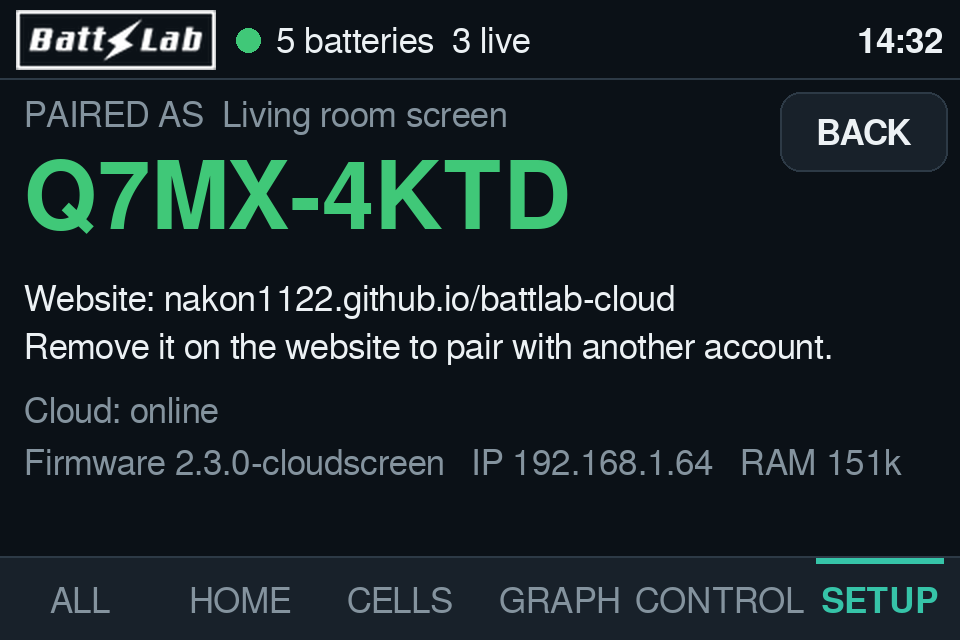
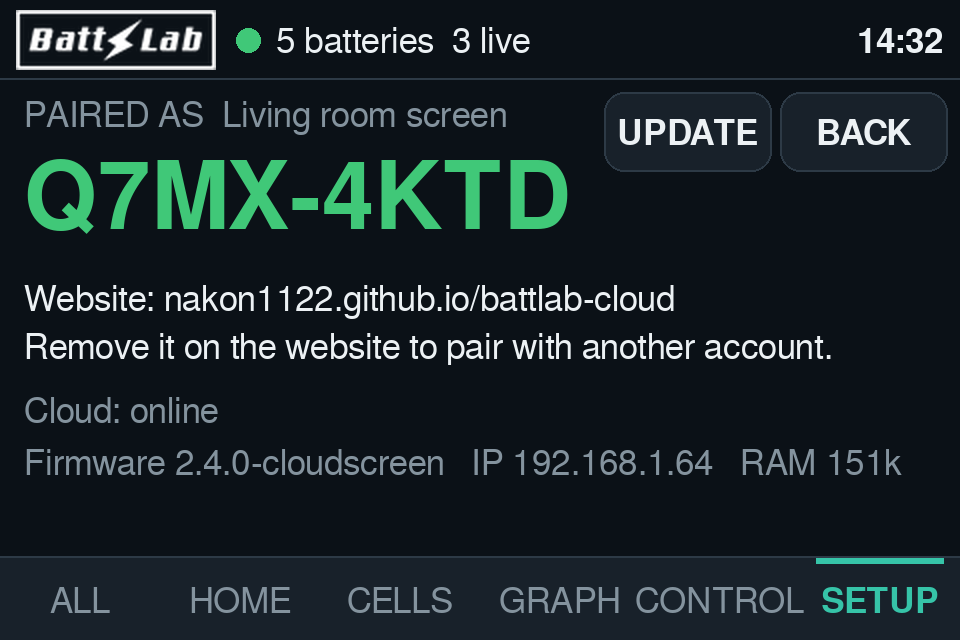
v2.4.0 docs, update previews
Claude-Session: https://claude.ai/code/session_01VYdSakDTk2CeAZPFHF5uE7

Changed region(s): [[0.625, 0.1875, 0.8125, 0.25], [0.2188, 0.6875, 0.25, 0.75]]

diff --git a/cloud/web/index.html b/cloud/web/index.html
@@ -108,10 +108,10 @@ table{width:100%;border-collapse:collapse;font-size:13px;font-variant-numeric:ta
 .tg{display:flex;align-items:center;justify-content:space-between;gap:12px;padding:10px 0;border-bottom:1px solid var(--line)}.tg:last-child{border-bottom:0}.tg .l{flex:1}.tg .l small{display:block;color:var(--muted);font-size:12px}
 .sw2{position:relative;width:52px;height:30px;border-radius:15px;background:var(--line);border:0;padding:0;flex:none;transition:background .15s}.sw2:after{content:"";position:absolute;top:3px;left:3px;width:24px;height:24px;border-radius:50%;background:#fff;transition:left .15s}.sw2.on{background:var(--good)}.sw2.on:after{left:25px}
 .prm{display:grid;grid-template-columns:1fr 110px auto;gap:8px;align-items:center;padding:8px 0;border-bottom:1px solid var(--line)}.prm input{margin:0;padding:8px 10px}.prm button{padding:8px 12px}.prm small{display:block;color:var(--muted);font-size:12px}
-.cl{display:flex;gap:8px;align-items:center;font-size:13px;padding:6px 0;border-bottom:1px solid var(--line)}.cl b{flex:1;font-weight:600}.st{font-size:11px;font-weight:700;padding:2px 8px;border-radius:10px;border:1px solid var(--line);color:var(--muted)}.st.done{color:var(--good);border-color:var(--good)}.st.error,.st.expired{color:var(--bad);border-color:var(--bad)}.st.sent,.st.pending{color:var(--warn);border-color:var(--warn)}
+.cl{display:flex;gap:8px;align-items:center;font-size:13px;padding:6px 0;border-bottom:1px solid var(--line)}.cl b{flex:1;font-weight:600;min-width:0;overflow-wrap:anywhere}.st{font-size:11px;font-weight:700;padding:2px 8px;border-radius:10px;border:1px solid var(--line);color:var(--muted)}.st.done{color:var(--good);border-color:var(--good)}.st.error,.st.expired{color:var(--bad);border-color:var(--bad)}.st.sent,.st.pending{color:var(--warn);border-color:var(--warn)}
 .ledc{display:flex;gap:8px;flex-wrap:wrap;margin:8px 0}.ledc span{width:34px;height:34px;border-radius:50%;cursor:pointer;border:3px solid transparent}.ledc span.on{border-color:var(--text)}
 .devrow{display:flex;gap:8px;align-items:center;padding:8px 0;border-bottom:1px solid var(--line)}.devrow .l{flex:1;min-width:0}.devrow .l b{display:block;overflow:hidden;text-overflow:ellipsis;white-space:nowrap}.devrow select{width:auto;margin:0;padding:7px}.devrow button{padding:8px 12px}
-@media(max-width:480px){.hide-s{display:none}}
+@media(max-width:480px){.hide-s{display:none}header{gap:4px!important}header button{padding:6px 8px!important}header img{height:20px!important}}
 .toast{position:fixed;left:50%;bottom:24px;transform:translateX(-50%);background:var(--card);border:1px solid var(--line);padding:10px 16px;border-radius:12px;max-width:90vw;z-index:50;box-shadow:0 8px 24px rgba(0,0,0,.3)}
 .empty{text-align:center;padding:26px 10px}.empty .e{font-size:44px}
 @media(max-width:480px){header{gap:6px;padding-left:12px;padding-right:12px}header img{height:22px}header button{padding:7px 10px;font-size:14px}header .badge{font-size:11px;padding:2px 7px}}
@@ -298,8 +298,8 @@ function demoAt(t){// t seconds
  const ph=t/5400,soc=58+32*Math.sin(ph),cur=Math.round(42*Math.cos(ph)*10)/10,cells=[];
  for(let k=0;k<16;k++)cells.push(+(3.255+soc*0.0012+0.004*Math.sin(k*1.7)+(k===11?0.019:0)+(k===4?-0.012:0)+0.002*Math.sin(t/4000+k)).toFixed(3));
  const v=cells.reduce((a,b)=>a+b,0),t1=29+6*Math.max(0,Math.cos(ph))+Math.sin(t/900);
- return {fw:'2.1.0-cyd35',state:'LIVE',bms:'JK02_32S',model:'JK-B2A24S20P',rssi:-61,up:Math.round(t%200000),heap:61440,blk:31744,v:+v.toFixed(2),i:cur,p:+(v*cur).toFixed(0),soc:+soc.toFixed(0),cap:+(soc/100*280).toFixed(1),cyc:37,t1:+t1.toFixed(1),t2:+(t1-0.8).toFixed(1),mos:+(t1+7).toFixed(1),chg:true,dsg:true,cells,cmin:Math.min(...cells),cmax:Math.max(...cells),...demoExtra()}}
-function demoExtra(){const S=demoState();return {chg:S.chg,dsg:S.dsg,jk:{v:S.jk,sw:[S.chg,S.dsg,S.bal]},devs:S.devs||undefined,wscan:S.wscan||undefined,cfg:{board:'cyd35',remote:1,led:S.led,ap:S.ap,tx:S.tx,ssid:S.ssid,ip:'192.168.1.57',wrssi:-55,note:S.note||undefined,mac:'c8:47:80:12:34:56',proto:'AUTO',auto:true,atype:0,fam:1,scanning:false,lw:'',disp:S.disp}}}
+ return {fw:'2.3.0-cyd35',state:'LIVE',bms:'JK02_32S',model:'JK-B2A24S20P',rssi:-61,up:Math.round(t%200000),heap:61440,blk:31744,v:+v.toFixed(2),i:cur,p:+(v*cur).toFixed(0),soc:+soc.toFixed(0),cap:+(soc/100*280).toFixed(1),cyc:37,t1:+t1.toFixed(1),t2:+(t1-0.8).toFixed(1),mos:+(t1+7).toFixed(1),chg:true,dsg:true,cells,cmin:Math.min(...cells),cmax:Math.max(...cells),...demoExtra()}}
+function demoExtra(){const S=demoState();return {chg:S.chg,dsg:S.dsg,jk:{v:S.jk,sw:[S.chg,S.dsg,S.bal]},devs:S.devs||undefined,wscan:S.wscan||undefined,cfg:{board:'cyd35',remote:1,ota:1,led:S.led,ap:S.ap,tx:S.tx,ssid:S.ssid,ip:'192.168.1.57',wrssi:-55,note:S.note||undefined,mac:'c8:47:80:12:34:56',proto:'AUTO',auto:true,atype:0,fam:1,scanning:false,lw:'',disp:S.disp}}}
 function demoHist(from,to,b){const out=[];for(let t=Math.ceil(from/1000/b)*b;t<to/1000;t+=b){const d=demoAt(t);out.push({t:new Date(t*1000).toISOString(),soc:d.soc,voltage:d.v,current:d.i,power:d.p,temp:d.t1,mos:d.mos,cell_min:d.cmin,cell_max:d.cmax,n:Math.max(1,Math.round(b/60))})}return out}
 async function fetchLatest(dev){if(dev.ble)return latest[BLE_ID]||null;if(dev.demo)return {ts:new Date().toISOString(),data:demoAt(Date.now()/1000)};const {data}=await sb.from('latest').select('ts,data').eq('device_id',dev.id).maybeSingle();return data}
 async function fetchHist(dev,from,to,b){if(dev.demo)return demoHist(from,to,b);const {data,error}=await sb.rpc('history_buckets',{p_device:dev.id,p_from:new Date(from).toISOString(),p_to:new Date(to).toISOString(),p_bucket:b});if(error)throw error;return data||[]}
@@ -376,13 +376,14 @@ function renderList(){
  devs.forEach(d=>{const l=latest[d.id];if(l&&statusOf(l)[0]==='on'){if(num(l.data.p))pw+=l.data.p;if(num(l.data.soc))socs.push(l.data.soc)}});
  $('fleet').innerHTML='<div class="row wrap"><div><div class="big">อุปกรณ์ของฉัน</div><div class="small muted">'+devs.length+' เครื่อง · ออนไลน์ '+on+'</div></div>'+(socs.length?'<div class="nf" style="text-align:right"><div class="small muted">กำลังรวม / SOC เฉลี่ย</div><b style="font-size:20px">'+Math.round(pw)+' W · '+Math.round(socs.reduce((a,b)=>a+b,0)/socs.length)+'%</b></div>':'')+'</div>';
  const cards=devs.map(d=>{const l=latest[d.id],s=dset(d),[st,txt]=statusOf(l),al=evalAlerts(d,l);trackAlerts(d,al);const x=l&&l.data||{};const live=st==='on';
-  return '<div class="card dcard" data-id="'+esc(d.id)+'" style="--dc:'+(live?socColor(x.soc):st==='wait'?'var(--warn)':'var(--line)')+'"><div class="row"><span class="ic nf">'+esc(s.icon)+'</span><div><b>'+esc(d.name)+'</b>'+(al.length?'<span class="abadge">'+al.length+'</span>':'')+'<div class="small muted"><span class="dot '+st+'"></span> '+esc(txt)+'</div></div><div class="nf row" style="gap:10px">'+(live&&num(x.soc)?'<span class="batt" style="--bc:'+socColor(x.soc)+'"><i style="width:calc('+Math.max(4,Math.min(100,x.soc))+'% - 4px)"></i></span><span class="big">'+Math.round(x.soc)+'%</span>':'')+'</div></div>'+
+  return '<div class="card dcard" data-id="'+esc(d.id)+'" style="--dc:'+(live?socColor(x.soc):st==='wait'?'var(--warn)':'var(--line)')+'"><div class="row"><span class="ic nf">'+esc(s.icon)+'</span><div><b>'+esc(d.name)+'</b>'+(al.length?'<span class="abadge">'+al.length+'</span>':'')+(fwUpdate(x)?'<span class="abadge" style="background:var(--s1)">มีอัปเดต</span>':'')+'<div class="small muted"><span class="dot '+st+'"></span> '+esc(txt)+'</div></div><div class="nf row" style="gap:10px">'+(live&&num(x.soc)?'<span class="batt" style="--bc:'+socColor(x.soc)+'"><i style="width:calc('+Math.max(4,Math.min(100,x.soc))+'% - 4px)"></i></span><span class="big">'+Math.round(x.soc)+'%</span>':'')+'</div></div>'+
   (live?'<div class="socbar"><i style="width:'+Math.max(0,Math.min(100,x.soc))+'%;background:'+socColor(x.soc)+'"></i></div><div class="kv"><span><b>'+fmt(x.v,1)+'</b> V</span><span><b>'+fmt(x.i,1)+'</b> A</span><span><b>'+fmt(x.p,0)+'</b> W</span><span><b>'+fmtT(x.t1)+'</b> '+tU()+'</span></div>':'')+'</div>'});
  if(!demo)cards.push('<div class="card dcard" data-id="'+DEMO_ID+'" style="border-style:dashed"><div class="row"><span class="ic nf">✨</span><div><b>ดูตัวอย่างแดชบอร์ด</b><div class="small muted">ข้อมูลจำลอง ให้เห็นทุกฟังก์ชัน</div></div></div></div>');
  $('devList').innerHTML=devs.length||!demo?cards.join(''):'';
  if(!devs.length&&!demo)$('devList').insertAdjacentHTML('afterbegin','<div class="card empty"><div class="e">🔌</div><b>ยังไม่มีอุปกรณ์</b><div class="small muted">เพิ่มด้วยรหัสจับคู่ด้านล่าง</div></div>');
  $('devList').querySelectorAll('.dcard').forEach(e=>e.onclick=()=>{const id=e.dataset.id;if(id===DEMO_ID&&!devs.find(d=>d.id===DEMO_ID)){devs.push(demoDev())}go('d/'+id+'/ov')})}
-function renderViewers(){const e=$('viewList');if(!e)return;e.classList.toggle('hide',demo||!viewers.length);e.innerHTML='<h3>จอ Cloud Screen</h3>'+viewers.map(v=>{const on=v.last_seen&&(Date.now()-new Date(v.last_seen))<60000;return '<div class="devrow"><div class="l"><b>🖥 '+esc(v.name)+'</b><span class="tiny muted"><span class="dot '+(on?'on':'off')+'"></span> '+(on?'ออนไลน์':v.last_seen?'ออฟไลน์ · '+ago(v.last_seen):'ยังไม่เคยเชื่อมต่อ')+' · '+esc(v.pair_code)+(v.fw?' · '+esc(v.fw):'')+'</span></div><button class="ghost" data-vr="'+esc(v.id)+'">เปลี่ยนชื่อ</button><button class="danger" data-vd="'+esc(v.id)+'">ลบ</button></div>'}).join('')+'<div class="tiny muted" style="margin-top:8px">จอนี้แสดงแบตทุกก้อนในบัญชีนี้ และสั่งงานได้เหมือนหน้าเว็บ</div>';
+function renderViewers(){const e=$('viewList');if(!e)return;e.classList.toggle('hide',demo||!viewers.length);e.innerHTML='<h3>จอ Cloud Screen</h3>'+viewers.map(v=>{const on=v.last_seen&&(Date.now()-new Date(v.last_seen))<60000;return '<div class="devrow"><div class="l"><b>🖥 '+esc(v.name)+'</b><span class="tiny muted"><span class="dot '+(on?'on':'off')+'"></span> '+(on?'ออนไลน์':v.last_seen?'ออฟไลน์ · '+ago(v.last_seen):'ยังไม่เคยเชื่อมต่อ')+' · '+esc(v.pair_code)+(v.fw?' · '+esc(v.fw):'')+'</span></div>'+(MAN&&MAN.boards&&MAN.boards.cloudscreen&&verNum(MAN.boards.cloudscreen.version)>verNum(v.fw)?'<button data-vu="'+esc(v.id)+'">⬆ '+esc(MAN.boards.cloudscreen.version)+'</button>':'')+'<button class="ghost" data-vr="'+esc(v.id)+'">เปลี่ยนชื่อ</button><button class="danger" data-vd="'+esc(v.id)+'">ลบ</button></div>'}).join('')+'<div class="tiny muted" style="margin-top:8px">จอนี้แสดงแบตทุกก้อนในบัญชีนี้ และสั่งงานได้เหมือนหน้าเว็บ</div>';
+ e.querySelectorAll('[data-vu]').forEach(b=>b.onclick=async()=>{const u=MAN.boards.cloudscreen;if(!confirm('อัปเดตจอเป็น '+u.version+'? จอจะเริ่มดาวน์โหลดภายในไม่กี่วินาที'))return;const {error}=await sb.rpc('viewer_ota',{p_id:b.dataset.vu,p_url:FW_BASE+u.url});toast(error?error.message:'ส่งคำสั่งอัปเดตจอแล้ว')});
  e.querySelectorAll('[data-vd]').forEach(b=>b.onclick=async()=>{if(!confirm('ลบจอนี้ออกจากบัญชี?'))return;const {error}=await sb.rpc('release_viewer',{p_id:b.dataset.vd});if(error)toast(error.message);else{toast('ลบแล้ว');loadDevices()}});
  e.querySelectorAll('[data-vr]').forEach(b=>b.onclick=async()=>{const v=viewers.find(x=>x.id===b.dataset.vr);const n=prompt('ชื่อจอ',v.name);if(!n)return;const {error}=await sb.from('viewers').update({name:n.slice(0,40)}).eq('id',v.id);if(error)toast(error.message);else loadDevices()})}
 const socColor=s=>s<=15?'var(--bad)':s<=35?'var(--warn)':'var(--good)';
@@ -399,6 +400,7 @@ function openDev(dev,t){if(dev.ble&&!['ov','cells','ctl'].includes(t))t='ctl';do
  if(!same){refresh();subRT();}clearInterval(pollT);pollT=setInterval(refresh,Math.max(3,P.refresh)*1000);window.scrollTo(0,0)}
 function subRT(){if(cur.demo||cur.ble)return;rt=sb.channel('l-'+cur.id).on('postgres_changes',{event:'*',schema:'public',table:'latest',filter:'device_id=eq.'+cur.id},p=>{if(p.new&&p.new.data&&cur){latest[cur.id]={ts:p.new.ts,data:p.new.data};renderDev()}}).subscribe(st=>{rtOn=st==='SUBSCRIBED'})}
 async function refresh(){if(!cur)return;const dev=cur;const l=await fetchLatest(dev).catch(()=>null);if(cur!==dev)return;if(l)latest[dev.id]=l;
+ if(l&&l.data&&l.data.fw){if(fwSeen[dev.id]&&fwSeen[dev.id]!==l.data.fw)toast('✓ บอร์ดใช้เฟิร์มแวร์ '+l.data.fw+' แล้ว');fwSeen[dev.id]=l.data.fw}
  if(!dev.ble&&Date.now()-energyAt>300000){energyAt=Date.now();const m=new Date();m.setHours(0,0,0,0);fetchHist(dev,m.getTime(),Date.now(),dev.demo?600:3600).then(r=>{energyToday=energyOf(r);if(tab==='ov')renderDev()}).catch(()=>{})}
  if(tab!=='hist'&&tab!=='set'&&tab!=='alert')renderDev();else renderHeader();if(tab==='ctl')ctlTouch();
  trackAlerts(dev,evalAlerts(dev,latest[dev.id]))}
@@ -543,11 +545,25 @@ function renderSet(){if(!editS||editS._id!==cur.id){editS=JSON.parse(JSON.string
  const rb=$('sRemove');if(rb)rb.onclick=async()=>{if(!confirm('ลบ "'+cur.name+'" ออกจากบัญชี? (เพิ่มกลับได้ด้วยรหัสจับคู่เดิม)'))return;const {error}=await sb.rpc('release_device',{p_id:cur.id});if(error)toast(error.message);else{toast('ลบแล้ว');await loadDevices();go('')}}}
 function keepForm(){if(!editS)return;editS.chem=$('sChem').value;const c=parseFloat($('sCap').value);editS.capAh=num(c)&&c>0?c:0}
 
+// ---------- firmware updates from the cloud
+const FW_BASE='https://nakon1122.github.io/battlab-cloud/';
+let MAN=null;const fwSeen={};
+function verNum(v){const m=String(v||'').match(/(\d+)\.(\d+)\.(\d+)/);return m?(+m[1])*10000+(+m[2])*100+(+m[3]):0}
+function boardOf(d){const c=d&&d.cfg;if(c&&c.board)return c.board;const f=String(d&&d.fw||'');return f.endsWith('-s3')?'s3':f.endsWith('-cyd35')?'cyd35':f.includes('cloudscreen')?'cloudscreen':''}
+function fwUpdate(d){if(!MAN||!d)return null;const b=MAN.boards&&MAN.boards[boardOf(d)];return b&&verNum(b.version)>verNum(d.fw)?b:null}
+fetch(FW_BASE+'fw/manifest.json?t='+Date.now()).then(r=>r.json()).then(m=>{MAN=m;ctlKey='';if(cur)renderDev();else if(!$('vList').classList.contains('hide')){renderList();renderViewers()}}).catch(()=>{});
+function fwCardHtml(d,c){const b=MAN&&MAN.boards&&MAN.boards[boardOf(d)],up=fwUpdate(d);
+ let h='<div class="card"><h3>เฟิร์มแวร์</h3><div class="info"><div><span>ตอนนี้</span><b>'+esc(d.fw||'--')+'</b></div><div><span>ล่าสุดบน cloud</span><b>'+(b?esc(b.version):MAN?'—':'กำลังโหลด…')+'</b></div></div>';
+ if(up){h+=(MAN.notes?'<div class="small muted" style="margin:10px 0">'+esc(MAN.notes)+'</div>':'<div style="height:10px"></div>');
+  h+=c&&c.ota?'<button id="cOta">⬆ อัปเดตเป็น '+esc(up.version)+' ('+(up.size/1048576).toFixed(1)+' MB)</button><div class="tiny muted" style="margin-top:6px">บอร์ดดาวน์โหลดเองผ่าน Wi-Fi บ้าน ใช้เวลา ~1 นาที แล้วรีสตาร์ท การตั้งค่าทั้งหมดยังอยู่ ถ้าเวอร์ชันใหม่เปิดไม่ขึ้น 3 ครั้งติด บอร์ดจะกลับไปใช้เวอร์ชันเดิมเอง</div>'
+   :'<div class="small" style="color:var(--warn)">เฟิร์มแวร์ตัวนี้ยังอัปเดตผ่าน cloud ไม่ได้ ต้องเสียบ USB ใช้ไฟล์ UPDATE_*.bat (v2.4.0 ขึ้นไป) ครั้งเดียว หลังจากนั้นอัปเดตจากหน้านี้ได้ตลอด</div>'}
+ else if(b)h+='<div class="small" style="color:var(--good);margin-top:8px">✓ เป็นเวอร์ชันล่าสุดแล้ว</div>';
+ return h+'</div>'}
 // ---------- remote control
 const LED_MODES=['รุ้ง (Rainbow)','สีเดียว','หายใจ (Breathe)','ตามสถานะแบต'];
 const LED_PAL=[['#FF0000','แดง'],['#FF5000','ส้ม'],['#FFBE00','เหลือง'],['#00FF28','เขียว'],['#00DCFF','ฟ้า'],['#0032FF','น้ำเงิน'],['#AA00FF','ม่วง'],['#FFFFFF','ขาว']];
 const JKP=[['Cell OVP','แรงดันเซลล์สูงสุด (OVP)','V',.01,2.8,4.3,3],['OVP recovery','คืนค่าจาก OVP','V',.01,2.7,4.25,3],['Cell UVP','แรงดันเซลล์ต่ำสุด (UVP)','V',.01,2.0,3.4,3],['UVP recovery','คืนค่าจาก UVP','V',.01,2.1,3.6,3],['Power off','แรงดันตัดระบบ','V',.01,2.0,3.3,3],['Balance start','เริ่มบาลานซ์ที่','V',.01,2.8,4.2,3],['Balance trigger','บาลานซ์เมื่อต่างกัน','V',.001,.003,.1,3],['Max balance I','กระแสบาลานซ์สูงสุด','A',.1,.3,4,1],['Max charge I','กระแสชาร์จสูงสุด','A',1,1,300,0],['Max discharge I','กระแสจ่ายสูงสุด','A',1,1,400,0],['Charge OTP','อุณหภูมิสูงสุดขณะชาร์จ','°C',1,30,70,0],['Discharge OTP','อุณหภูมิสูงสุดขณะจ่าย','°C',1,30,80,0],['Charge UTP','อุณหภูมิต่ำสุดขณะชาร์จ','°C',1,-30,15,0],['MOS OTP','อุณหภูมิ MOS สูงสุด','°C',1,50,100,0],['Capacity','ความจุแบต','Ah',1,1,2000,0]];
-const CMD_TH={forget_wifi:'ลืม Wi-Fi บ้าน',led:'ไฟ RGB',bms_scan:'ค้นหา BMS',bms_connect:'เชื่อม BMS',bms_auto:'เชื่อม BMS อัตโนมัติ',bms_disconnect:'ตัดการเชื่อม BMS',bms_param:'ตั้งพารามิเตอร์',bms_switch:'สวิตช์ MOS',bms_read:'อ่านค่าจาก BMS',wifi_ap:'ฮอตสปอต BATTLAB',radio_max:'กำลังส่งวิทยุ',home_wifi:'เปลี่ยน Wi-Fi บ้าน',wifi_scan:'ค้นหา Wi-Fi',display:'ตั้งค่าหน้าจอ',restart:'รีสตาร์ทบอร์ด',ping:'ทดสอบการเชื่อมต่อ'};
+const CMD_TH={ota:'อัปเดตเฟิร์มแวร์',forget_wifi:'ลืม Wi-Fi บ้าน',led:'ไฟ RGB',bms_scan:'ค้นหา BMS',bms_connect:'เชื่อม BMS',bms_auto:'เชื่อม BMS อัตโนมัติ',bms_disconnect:'ตัดการเชื่อม BMS',bms_param:'ตั้งพารามิเตอร์',bms_switch:'สวิตช์ MOS',bms_read:'อ่านค่าจาก BMS',wifi_ap:'ฮอตสปอต BATTLAB',radio_max:'กำลังส่งวิทยุ',home_wifi:'เปลี่ยน Wi-Fi บ้าน',wifi_scan:'ค้นหา Wi-Fi',display:'ตั้งค่าหน้าจอ',restart:'รีสตาร์ทบอร์ด',ping:'ทดสอบการเชื่อมต่อ'};
 const ST_TH={pending:'รอบอร์ด',sent:'บอร์ดรับแล้ว',done:'สำเร็จ',error:'ไม่สำเร็จ',expired:'หมดเวลา'};
 let cmds=[],cmdT=null,touchAt=0,ctlKey='',DS=null;
 function ctlTouch(force){if(!cur||cur.demo||cur.ble)return;if(force||Date.now()-touchAt>60000){touchAt=Date.now();sb.rpc('remote_touch',{p_device:cur.id}).then(()=>{},()=>{})}}
@@ -559,11 +575,11 @@ async function sendCmd(cmd,args,okMsg){if(!cur)return;args=args||{};if(cur.ble)r
  if(cur.demo){const c={id:Date.now(),cmd,args,status:'sent',result:null,created_at:new Date().toISOString()};cmds.unshift(c);renderCmdLog();setTimeout(()=>{demoApply(cmd,args);c.status='done';c.result=okMsg||'ok';toast('✓ '+(CMD_TH[cmd]||cmd));if(cur&&cur.demo)latest[cur.id]={ts:new Date().toISOString(),data:demoAt(Date.now()/1000)};ctlKey='';renderDev();renderCmdLog()},1200);return}
  const {data,error}=await sb.rpc('send_command',{p_device:cur.id,p_cmd:cmd,p_args:args});if(error){toast('ส่งไม่สำเร็จ: '+error.message);return}
  touchAt=Date.now();cmds.unshift({id:data,cmd,args,status:'pending',created_at:new Date().toISOString()});renderCmdLog();toast('ส่งคำสั่งแล้ว รอบอร์ดรับ…');clearTimeout(cmdT);cmdT=setTimeout(loadCmds,1200)}
-function renderCmdLog(){const e=$('cmdLog');if(!e)return;e.innerHTML=cmds.length?cmds.map(c=>'<div class="cl"><b>'+esc(CMD_TH[c.cmd]||c.cmd)+(c.args&&Object.keys(c.args).length&&c.cmd!=='home_wifi'?' <span class="muted tiny">'+esc(JSON.stringify(c.args))+'</span>':'')+'</b><span class="muted tiny">'+new Date(c.created_at).toLocaleTimeString('th-TH')+'</span><span class="st '+c.status+'" title="'+esc(c.result||'')+'">'+(ST_TH[c.status]||c.status)+'</span></div>'+(c.result&&c.status!=='done'?'<div class="tiny muted" style="padding:0 0 6px">'+esc(c.result)+'</div>':'')).join(''):'<div class="small muted">ยังไม่มีคำสั่ง</div>'}
+function renderCmdLog(){const e=$('cmdLog');if(!e)return;e.innerHTML=cmds.length?cmds.map(c=>'<div class="cl"><b>'+esc(CMD_TH[c.cmd]||c.cmd)+(c.args&&Object.keys(c.args).length&&c.cmd!=='home_wifi'&&c.cmd!=='ota'?' <span class="muted tiny">'+esc(JSON.stringify(c.args))+'</span>':'')+'</b><span class="muted tiny">'+new Date(c.created_at).toLocaleTimeString('th-TH')+'</span><span class="st '+c.status+'" title="'+esc(c.result||'')+'">'+(ST_TH[c.status]||c.status)+'</span></div>'+(c.result&&c.status!=='done'?'<div class="tiny muted" style="padding:0 0 6px">'+esc(c.result)+'</div>':'')).join(''):'<div class="small muted">ยังไม่มีคำสั่ง</div>'}
 function tgl(id,label,sub,on,dis){return '<div class="tg"><div class="l">'+label+(sub?'<small>'+sub+'</small>':'')+'</div><button class="sw2'+(on?' on':'')+'" id="'+id+'" '+(dis?'disabled':'')+' aria-pressed="'+(!!on)+'"></button></div>'}
 function bleInfoHtml(c){if(!cur.ble||!c)return '';return '<div class="card"><div class="row wrap"><div><b>🔵 '+esc(c.name||'')+'</b><div class="small muted">รหัสจับคู่ <b style="color:var(--text);letter-spacing:1px">'+esc(c.pair||'')+'</b> · Cloud: '+esc(c.cloud||'')+'</div><div class="small muted">Wi-Fi บ้าน: '+(c.ssid?esc(c.ssid)+(c.conn?' ✓ '+esc(c.ip):' (กำลังเชื่อมต่อ)'):'ยังไม่ได้ตั้ง')+'</div></div>'+(c.paired?'<span class="nf pill on">อยู่ในบัญชีแล้ว</span>':'<button class="nf" id="bClaim">เพิ่มเข้าบัญชีของฉัน</button>')+'</div>'+(c.ssid?'<button class="danger" id="bForget" style="margin-top:10px;padding:8px 12px">ลืม Wi-Fi บ้าน</button>':'')+'</div>'}
 function renderCtl(){const l=latest[cur.id],d=l&&l.data||{},c=d.cfg,x=derive(l,dset(cur));
- const key=JSON.stringify([c,d.jk,d.devs,d.wscan,d.chg,d.dsg,x.online,P.tempUnit]);const ae=document.activeElement;
+ const key=JSON.stringify([c,d.jk,d.devs,d.wscan,d.chg,d.dsg,x.online,P.tempUnit,d.fw,!!MAN]);const ae=document.activeElement;
  if(key===ctlKey&&$('cmdLog'))return;if(ae&&$('tab_ctl').contains(ae)&&/INPUT|SELECT/.test(ae.tagName)&&$('cmdLog'))return;ctlKey=key;
  if(!l||!c){$('tab_ctl').innerHTML='<div class="card empty"><div class="e">🛰</div><b>'+(!l?'บอร์ดยังไม่เคยส่งข้อมูลขึ้น cloud':'ต้องอัปเดตเฟิร์มแวร์เป็น 2.1.0 ขึ้นไปก่อน')+'</b><div class="small muted">'+(!l?'ตั้ง Wi-Fi บ้านบนบอร์ดก่อน':'เฟิร์มแวร์ตอนนี้: '+esc(d.fw||'--')+' · ใช้ไฟล์ UPDATE_*.bat เพื่ออัปเดตโดยไม่ลบการตั้งค่า')+'</div></div><div class="card"><h3>คำสั่งล่าสุด</h3><div id="cmdLog"></div></div>';renderCmdLog();return}
  const off=!x.online,fam=c.fam||0,famN=['ยังไม่รู้จัก','JK','ANT','JBD'][fam]||'?',isCyd=c.board==='cyd35';
@@ -595,11 +611,13 @@ function renderCtl(){const l=latest[cur.id],d=l&&l.data||{},c=d.cfg,x=derive(l,d
   '<label style="margin-top:10px">ชื่อ Wi-Fi ใหม่<input id="wSsid" list="wList" maxlength="32" placeholder="เลือกหรือพิมพ์ชื่อ"><datalist id="wList">'+ws.map(w=>'<option value="'+esc(w.ssid)+'">'+(w.rssi||'')+' dBm</option>').join('')+'</datalist></label>'+(ws.length?'<div class="small muted" style="margin:-6px 0 8px">พบ '+ws.length+' เครือข่าย: '+ws.slice(0,6).map(w=>esc(w.ssid)).join(', ')+'</div>':'')+
   '<label>รหัสผ่าน<input id="wPass" type="password" maxlength="64"></label><button class="soft" id="cWifi">เปลี่ยน Wi-Fi บ้าน</button><div class="tiny muted" style="margin-top:6px">ถ้าต่อเครือข่ายใหม่ไม่ได้ภายใน 90 วินาที บอร์ดจะกลับไปใช้ Wi-Fi เดิมเอง</div></div>';
  // system
+ h+=fwCardHtml(d,c);
  h+='<div class="card"><h3>ระบบ</h3><button class="danger" id="cRestart">รีสตาร์ทบอร์ด</button></div>';
  h+='<div class="card"><h3>คำสั่งล่าสุด</h3><div id="cmdLog"></div></div>';
  $('tab_ctl').innerHTML=h;renderCmdLog();
  const on=id=>$(id)&&$(id).classList.contains('on'),bind=(id,f)=>{const e=$(id);if(e)e.onclick=f};
  bind('cPing',()=>sendCmd('ping',{},'pong'));
+ bind('cOta',()=>{const up=fwUpdate(d);if(!up)return;if(!confirm('อัปเดตเฟิร์มแวร์เป็น '+up.version+'?\nบอร์ดจะหยุดอ่าน BMS ประมาณ 1 นาทีระหว่างดาวน์โหลด แล้วรีสตาร์ทเอง'))return;sendCmd('ota',{url:FW_BASE+up.url});toast('ส่งคำสั่งอัปเดตแล้ว รอบอร์ดดาวน์โหลด…')});
  bind('bForget',()=>{if(confirm('ลบ Wi-Fi บ้านออกจากบอร์ด? บอร์ดจะหลุดจาก cloud จนกว่าจะตั้งใหม่'))sendCmd('forget_wifi')});
  bind('bClaim',async()=>{const {data}=await sb.auth.getSession();if(!data.session){toast('เข้าสู่ระบบก่อน แล้วกดอีกครั้ง');return}const {error}=await sb.rpc('claim_device',{p_pair:c.pair,p_name:c.name});toast(error?(error.message.includes('not found')?'บอร์ดต้องต่อ Wi-Fi บ้านและขึ้น online ก่อน':error.message):'เพิ่มเข้าบัญชีแล้ว');if(!error)loadDevices()});
  bind('cChg',()=>{const t=!on('cChg');if(!t&&!confirm('ปิด MOS ชาร์จ? แบตจะไม่รับไฟชาร์จ'))return;sendCmd('bms_switch',{which:0,on:t})});

diff --git a/tools/render_viewer.py b/tools/render_viewer.py
@@ -230,7 +230,7 @@ def setup():
 def pairing(paired=False):
     s = Scr(); header(s, 'Cloud: waiting for pairing' if not paired else '5 batteries  3 live', WARN if not paired else GOOD)
     if paired:
-        s.button((390, 46, 84, 40), 'BACK')
+        s.button((390, 46, 84, 40), 'BACK'); s.button((302, 46, 84, 40), 'UPDATE')
         s.text('PAIRED AS  Living room screen', 12, 58, F9, MUTED)
     else:
         s.text('PAIR CODE FOR THIS SCREEN', 12, 58, F9, MUTED)
@@ -270,12 +270,21 @@ def boot():
     s.rr(140, 262, 200, 4, 2, fill=(40, 40, 40)); s.rr(140, 262, 120, 4, 2, fill=ACCENT)
     return s
 
+def ota_screen(pct=62):
+    s = Scr()
+    s.text('Updating firmware', 240, 120, F12B, TEXT, 'mm')
+    s.rr(60, 156, 360, 18, 9, fill=LINE); s.rr(60, 156, int(360 * pct / 100), 18, 9, fill=ACCENT)
+    s.text(f'{pct}%', 240, 189, F9B, TEXT, 'mm')
+    s.text('Do not switch off - restarts by itself', 240, 210, F9, MUTED, 'mm')
+    return s
+
 shots = [
     ('cloudscreen_01_boot.png', 'Boot logo', boot()),
     ('cloudscreen_02_pair.png', 'First start: pair code to add on the website', pairing()),
     ('cloudscreen_03_all.png', 'ALL: every battery of the account (tap = open)', all_page()),
     ('cloudscreen_04_all_alarm.png', 'ALL: alarm when a battery is low / hot / offline', all_page('E-bike 60V LOW 12%')),
     ('cloudscreen_05_home.png', 'HOME: one battery, < > switches battery', home()),
+    ('cloudscreen_16_update.png', 'Firmware update from BattLab Cloud (no USB)', ota_screen()),
     ('cloudscreen_05b_big.png', 'HOME: tap the gauge = BIG view; SETUP > SHOW rotates batteries', big_home()),
     ('cloudscreen_06_cells.png', 'CELLS: every cell, min blue / max red', cells()),
     ('cloudscreen_07_graph.png', 'GRAPH: SOC / V / A / W / temp, 6H 24H 7D', graph()),

diff --git a/tools/render_screens.py b/tools/render_screens.py
@@ -300,6 +300,14 @@ def calib():
     d.line((0, 0, 24*S, 24*S), fill=ACCENT, width=3*S); d.polygon([(0, 0), (24*S, 0), (0, 24*S)], fill=ACCENT)
     return s
 
+def ota_screen(pct=62):
+    s = Scr()
+    s.text('Updating firmware', 240, 120, F12B, TEXT, 'mm')
+    s.rr(60, 156, 360, 18, 9, fill=LINE); s.rr(60, 156, int(360 * pct / 100), 18, 9, fill=ACCENT)
+    s.text(f'{pct}%', 240, 189, F9B, TEXT, 'mm')
+    s.text('Do not switch off - restarts by itself', 240, 210, F9, MUTED, 'mm')
+    return s
+
 shots = [
     ('01_boot.png', 'Boot: BattLab logo, 5 s', boot()),
     ('02_touch_calibration.png', 'First start: touch calibration', calib()),
@@ -316,6 +324,7 @@ shots = [
     ('13_info.png', 'INFO: status + HOME WI-FI / CLOUD buttons', info()),
     ('15_wifi_list.png', 'HOME WI-FI: scan and pick your network', wifi_list()),
     ('16_wifi_keyboard.png', 'On-screen keyboard for the Wi-Fi password', keyboard()),
+    ('19_cloud_update.png', 'Firmware update from BattLab Cloud (no USB)', ota_screen()),
     ('18_home_big.png', 'HOME: tap the gauge = BIG view (tap again to go back)', big_home()),
     ('17_cloud_pairing.png', 'CLOUD: pair code to add on the website', cloud()),
     ('14_boot_after_crash.png', 'Boot after an abnormal reset', boot('CRASH (panic)', .3)),
